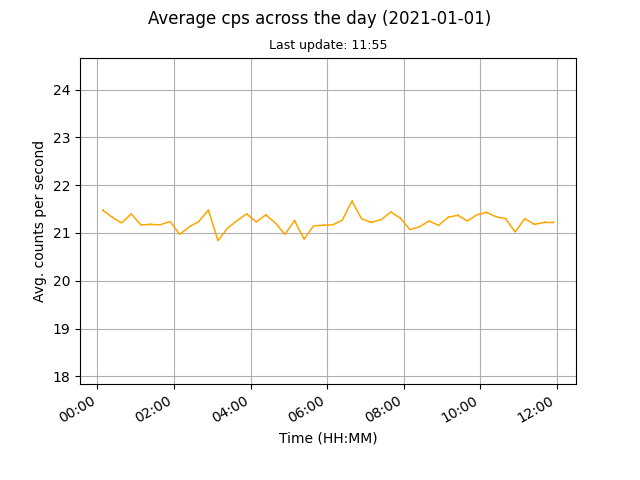
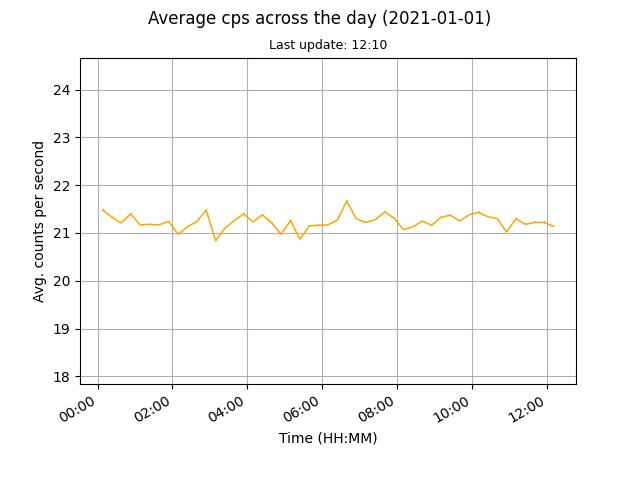
auto data update

diff --git a/docs/index.html b/docs/index.html
@@ -45,8 +45,8 @@
 	
 	<br>
 	
-	<p>Current counts per second (cps): 21.22</p>
-	<p>Last update: 2021-01-01, 11:55</p>
+	<p>Current counts per second (cps): 21.14</p>
+	<p>Last update: 2021-01-01, 12:10</p>
 
 	<p><a href="images/monthly.png"><img src="images/monthly.png" alt="Mothly avg cps data"></a><a href="images/daily.png"><img src="images/daily.png" alt="Daily avg cps data"></a></p>
 	
